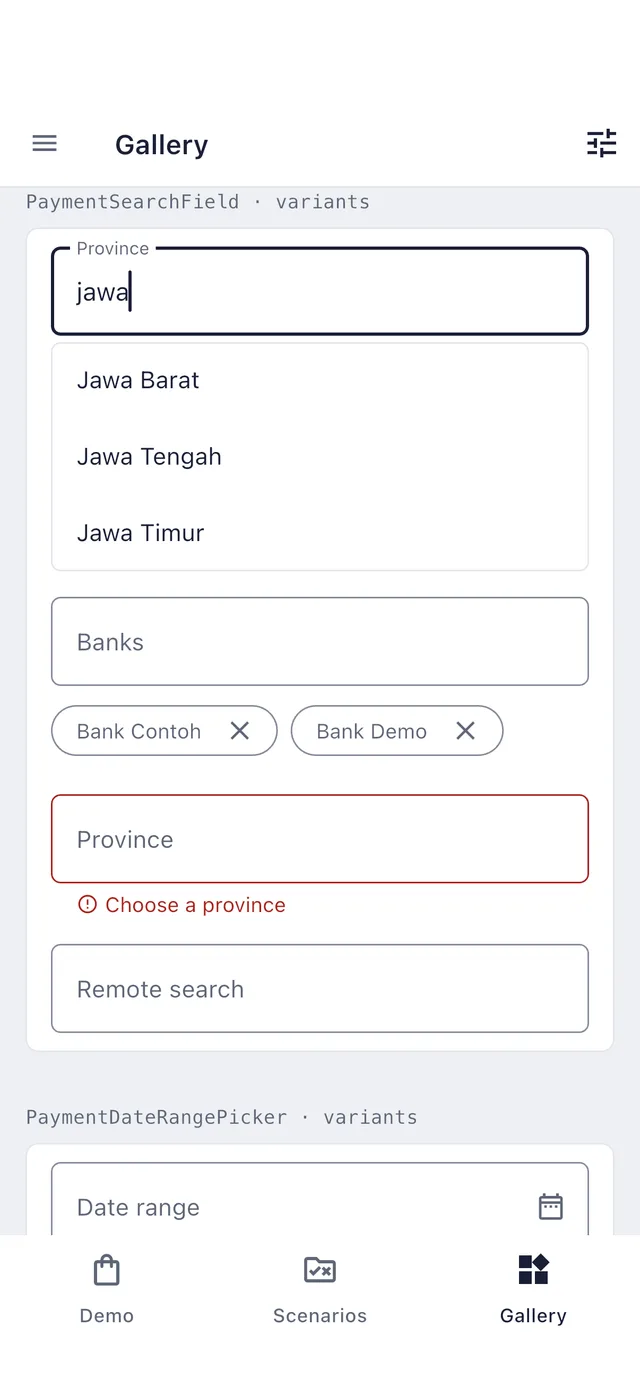
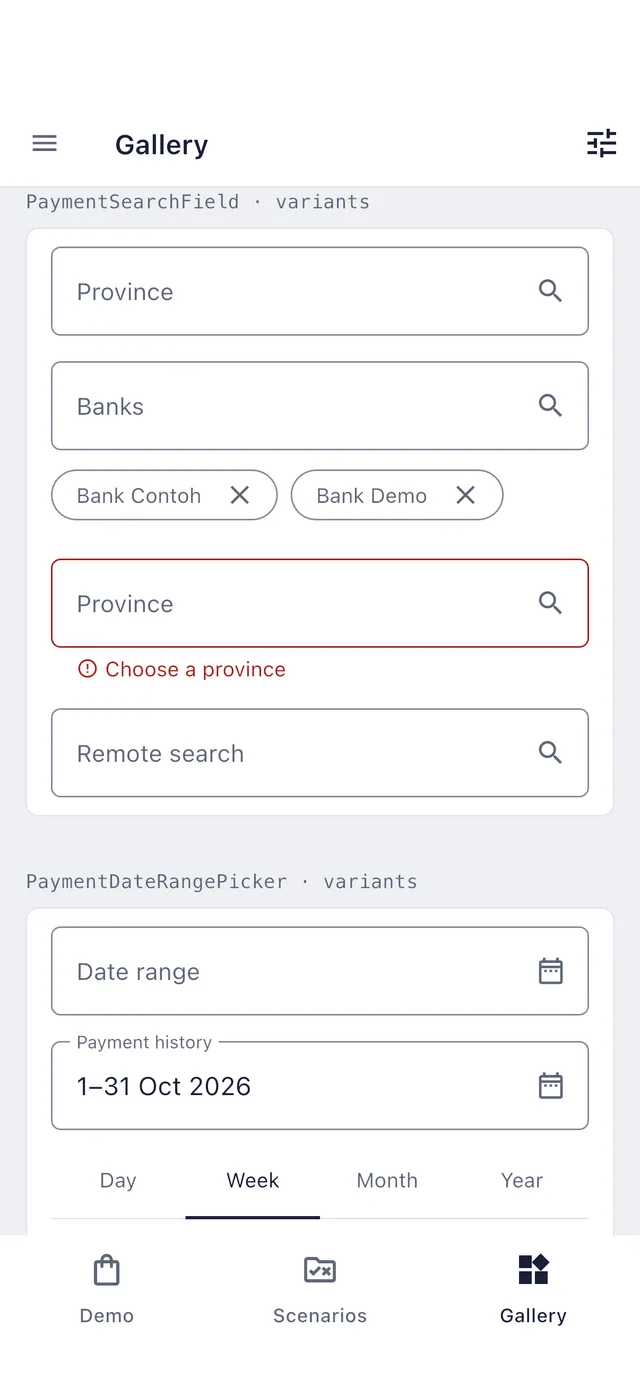
docs(search): D50 search sheet page, captures, changelog and notes

diff --git a/docs/decisions.md b/docs/decisions.md
@@ -525,3 +525,10 @@ Problems found in the review are recorded as issues before any work: #45–#50, 
 - **Navigation (#62).** Selected items use heading weight even though the label width can change: the weight is the cue that survives a dark theme whose accent equals its text colour. The 2 dp indicator is inset 12 dp top and bottom inside the rounded fill.
 - **Dates (#63, #65).** `formatDateRange`'s spaced form keeps a normal space after "–" so a cross-month range can still wrap at 200% inside a chip or trigger; every date inside it is unbreakable. U+2060 (word joiner) glues the short form's dash.
 - **Not changed.** The media play disc stays 60 dp (D46, optional). The task-list connector stays and is documented as order, not progress.
+
+### UI review P4 implementation notes (1 Nov 2026)
+
+- **Split.** The `lib/` diff passed 1,500 lines, so P4 ships as 4A (search, #54) and 4B (dates and the #65 form items, #55, #56), stacked.
+- **Full-height sheets.** P2's `showKitBottomSheet(fullHeight: true)` sized the sheet but `PaymentSheet` still hugged its content, so a footer floated under short content and a lazy list could not live in its scroll view. A full-height sheet now marks its subtree, a `PaymentSheet` inside it fills and pins its footer, and the internal `KitFullSheet` lays out a fixed header and top, an expanding lazy body and the shared `KitSheetFooter` (the hairline and 16 dp / safe-area padding `PaymentSheet` already used). The search and date sheets have no drag handle, like the confirm and menu sheets.
+- **Search (D50).** On a phone the host `focusNode` sits on the trigger, so `IdentityForm`'s focus-first-error lands there without opening the sheet; the sheet's field has its own node, focused after the first frame. The sheet reads host `options`, `loading` and remote results from a `ValueNotifier` the field updates after each rebuild (a post-frame update, because the sheet lives in another route). The wide list uses `OverlayPortal.overlayChildLayoutBuilder` to sit under the field at its width, inside a `TextFieldTapRegion` so a tap on a row doesn't blur the field first. The sheet starts from `initialQuery` once and from an empty query after that.
+- **Not built.** There is no host search-error row: `PaymentSearchField` has no error-state input, and P4 adds no constructor parameters. A failed remote search shows as no matches, with `errorText` on the field.

diff --git a/docs/prd-foundation-components.md b/docs/prd-foundation-components.md
@@ -1213,7 +1213,7 @@ PaymentCode(String text, {Key? key, PaymentCodeKind kind = PaymentCodeKind.code,
 
 **`PaymentSearchField<T>`** (Stripe SearchField; D37)
 
-- **Anatomy:** a `PaymentTextField(type: search)` plus a listbox of matching options below it, inline rather than in an overlay, so it works at 200% and with the keyboard up.
+- **Anatomy (D50, UI review P4):** below 600 dp a field trigger that opens a full-height search sheet (label and close, a focused `PaymentTextField(type: search)`, 48 dp result rows above the keyboard; `.multiple` adds the draft chips and a full-width Done in the footer). At ≥ 600 dp a `PaymentTextField(type: search)` with the listbox floating under it in an overlay (surface fill, `border` edge, elevation), so the page doesn't move. *Supersedes the inline listbox.*
 - **Variants:**
   - `data` → `options: List<PaymentSearchOption<T>>` (`value`, `label`). The kit filters them locally by case- and diacritic-insensitive substring. For remote search, the host passes `onQueryChanged` and replaces `options` (with `loading` while it fetches).
   - `selectionMode` single / multiple → `PaymentSearchField` / `PaymentSearchField.multiple`.
@@ -2075,6 +2075,9 @@ The owner accepted every recommendation below on 31 Oct 2026. The parity decisio
 - [x] Narrow `PaymentTable` / `PaymentDataTable` rows as property rows with the ⋮ on the title line; Total divider; select-all inset; non-breaking ID hyphens (D60)
 - [x] `PaymentSection` 36 dp header band; navigation selection weight + indicator, 48 dp pitch; task-list connector documented
 - [x] Dates joined with U+00A0; range dash glued with U+2060 (#63-6, #65)
+
+**UI review P4: search and date pickers** (D50, D51, D52, D52a; #54, #55, #56, #65)
+- [x] Search: phone full-height sheet with a focused field, 48 dp rows and a multiple-selection Done; wide floating list in an overlay (D50)
 ```
 
 ### Phase 2E implementation notes

diff --git a/website/src/content/docs/reference/changelog.md b/website/src/content/docs/reference/changelog.md
@@ -5,6 +5,10 @@ description: Changes in flutter_ui_payment, copied from CHANGELOG.md in the repo
 
 Copied verbatim from `CHANGELOG.md`. Version 0.1.0 is unreleased and not published.
 
+## UI review P4 (2026-11-01)
+
+- **Search sheet on phones (D50, #54).** Below 600 dp `PaymentSearchField` is a field trigger that opens a full-height search sheet: a focused search field, 48 dp result rows and, for `.multiple`, the draft chips and a full-width "Done" ("Selesai") that applies them; close discards the draft. Focus returns to the field, and focusing it from code never opens the sheet. At 600 dp and wider the list floats in an overlay with the surface fill, the control edge and elevation instead of pushing the page down. The API is unchanged. **Migration:** a phone-sized test that typed into the field's `EditableText` now taps the field and types into the sheet's.
+
 ## UI review P3 (2026-11-01)
 
 - **Reference rows (D57, #62).** `InfoRow.reference`, `PaymentPropertyListItem.reference` and `PaymentDetailValue.reference` show an ID or reference as monospace tabular text on the value edge, with no fill. A trailing copy button centres on the first line and its glyph sits on the value edge while the 48 dp target stays in the row. `PaymentDetailValue.onCopy` adds that copy button. Keep `PaymentCode` for multi-line technical text. All additive.

diff --git a/CHANGELOG.md b/CHANGELOG.md
@@ -1,3 +1,7 @@
+## UI review P4 (2026-11-01)
+
+- **Search sheet on phones (D50, #54).** Below 600 dp `PaymentSearchField` is a field trigger that opens a full-height search sheet: a focused search field, 48 dp result rows and, for `.multiple`, the draft chips and a full-width "Done" ("Selesai") that applies them; close discards the draft. Focus returns to the field, and focusing it from code never opens the sheet. At 600 dp and wider the list floats in an overlay with the surface fill, the control edge and elevation instead of pushing the page down. The API is unchanged. **Migration:** a phone-sized test that typed into the field's `EditableText` now taps the field and types into the sheet's.
+
 ## UI review P3 (2026-11-01)
 
 - **Reference rows (D57, #62).** `InfoRow.reference`, `PaymentPropertyListItem.reference` and `PaymentDetailValue.reference` show an ID or reference as monospace tabular text on the value edge, with no fill. A trailing copy button centres on the first line and its glyph sits on the value edge while the 48 dp target stays in the row. `PaymentDetailValue.onCopy` adds that copy button. Keep `PaymentCode` for multi-line technical text. All additive.
